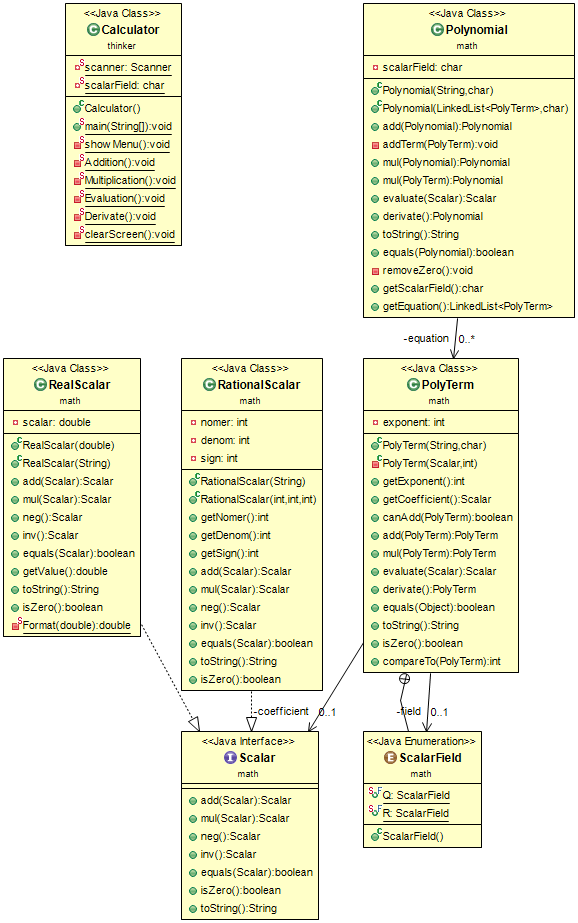
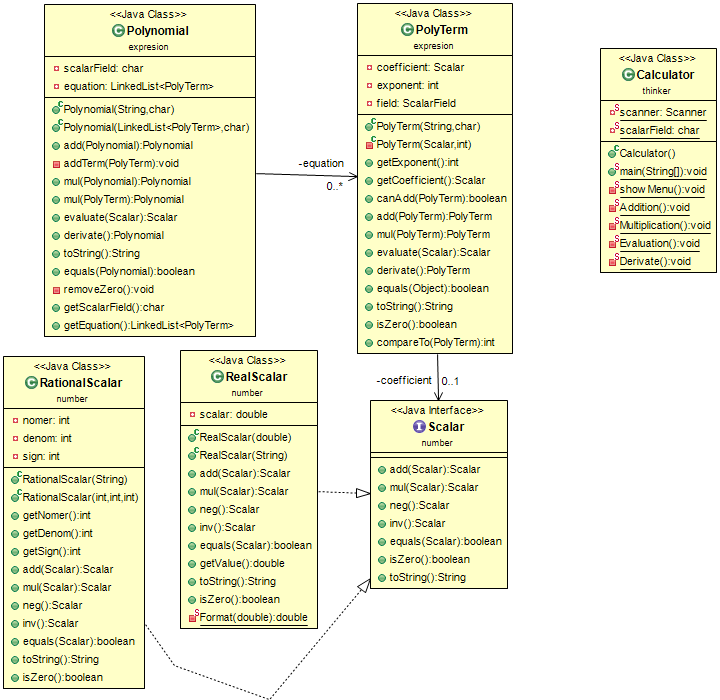
pacge

diff --git a/src/thinker/Calculator.java b/src/thinker/Calculator.java
@@ -1,8 +1,11 @@
 package thinker;
 
-import math.*;
-
 import java.util.Scanner;
+
+import expresion.*;
+import number.RationalScalar;
+import number.RealScalar;
+import number.Scalar;
 
 public class Calculator {
     private static Scanner scanner;
@@ -95,8 +98,4 @@ public class Calculator {
         System.out.println(poly.derivate());
     }
 
-    private static void clearScreen() {
-        System.out.print("\033[H\033[2J");
-        System.out.flush();
-    }
 }

diff --git a/src/tester.java b/src/tester.java
@@ -1,7 +1,7 @@
 import java.text.DecimalFormat;
 
-import math.Polynomial;
-import math.RationalScalar;
+import expresion.Polynomial;
+import number.RationalScalar;
 
 public class tester {
     public static void main(String[] args) {

diff --git a/src/expresion/PolyTerm.java b/src/expresion/PolyTerm.java
@@ -1,5 +1,8 @@
-package math;
+package expresion;
 
+import number.RationalScalar;
+import number.RealScalar;
+import number.Scalar;
 
 public class PolyTerm implements Comparable<PolyTerm> {
     public enum ScalarField{Q,R};

diff --git a/src/expresion/Polynomial.java b/src/expresion/Polynomial.java
@@ -1,6 +1,10 @@
-package math;
+package expresion;
 
 import java.util.LinkedList;
+
+import number.RationalScalar;
+import number.RealScalar;
+import number.Scalar;
 
 public class Polynomial {
 

diff --git a/src/number/RationalScalar.java b/src/number/RationalScalar.java
@@ -1,4 +1,4 @@
-package math;
+package number;
 
 public class RationalScalar implements Scalar {
     private int nomer;

diff --git a/src/number/RealScalar.java b/src/number/RealScalar.java
@@ -1,4 +1,4 @@
-package math;
+package number;
 
 import java.text.DecimalFormat;
 

diff --git a/src/number/Scalar.java b/src/number/Scalar.java
@@ -1,4 +1,4 @@
-package math;
+package number;
 
 public interface Scalar {
 
